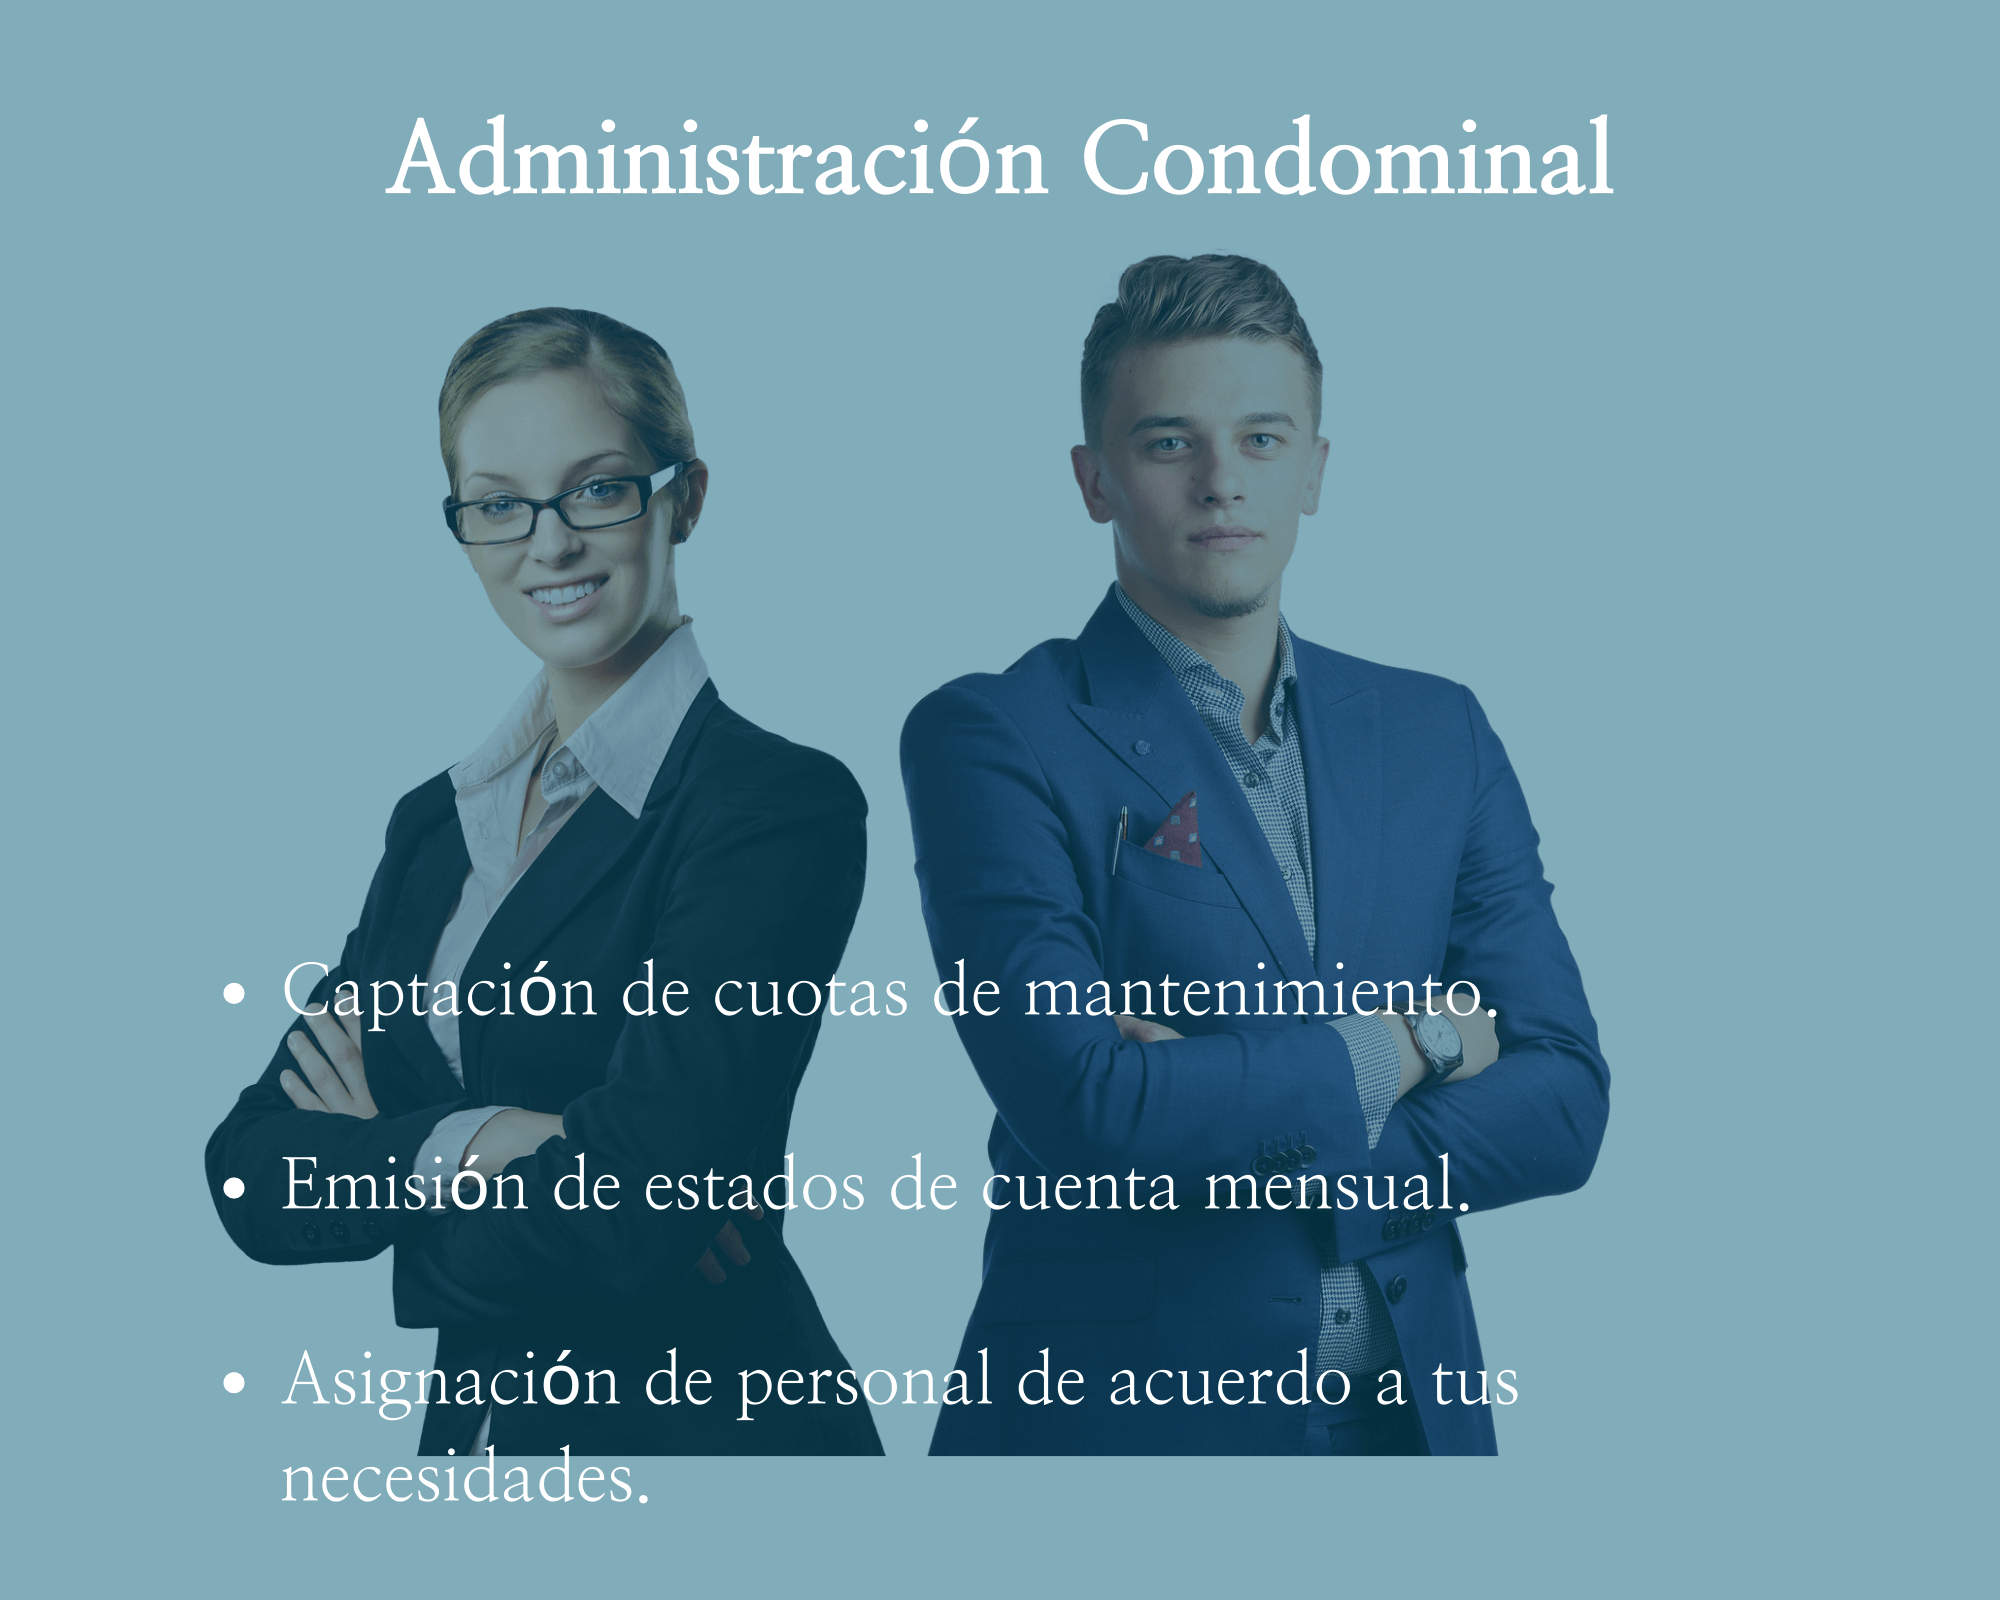
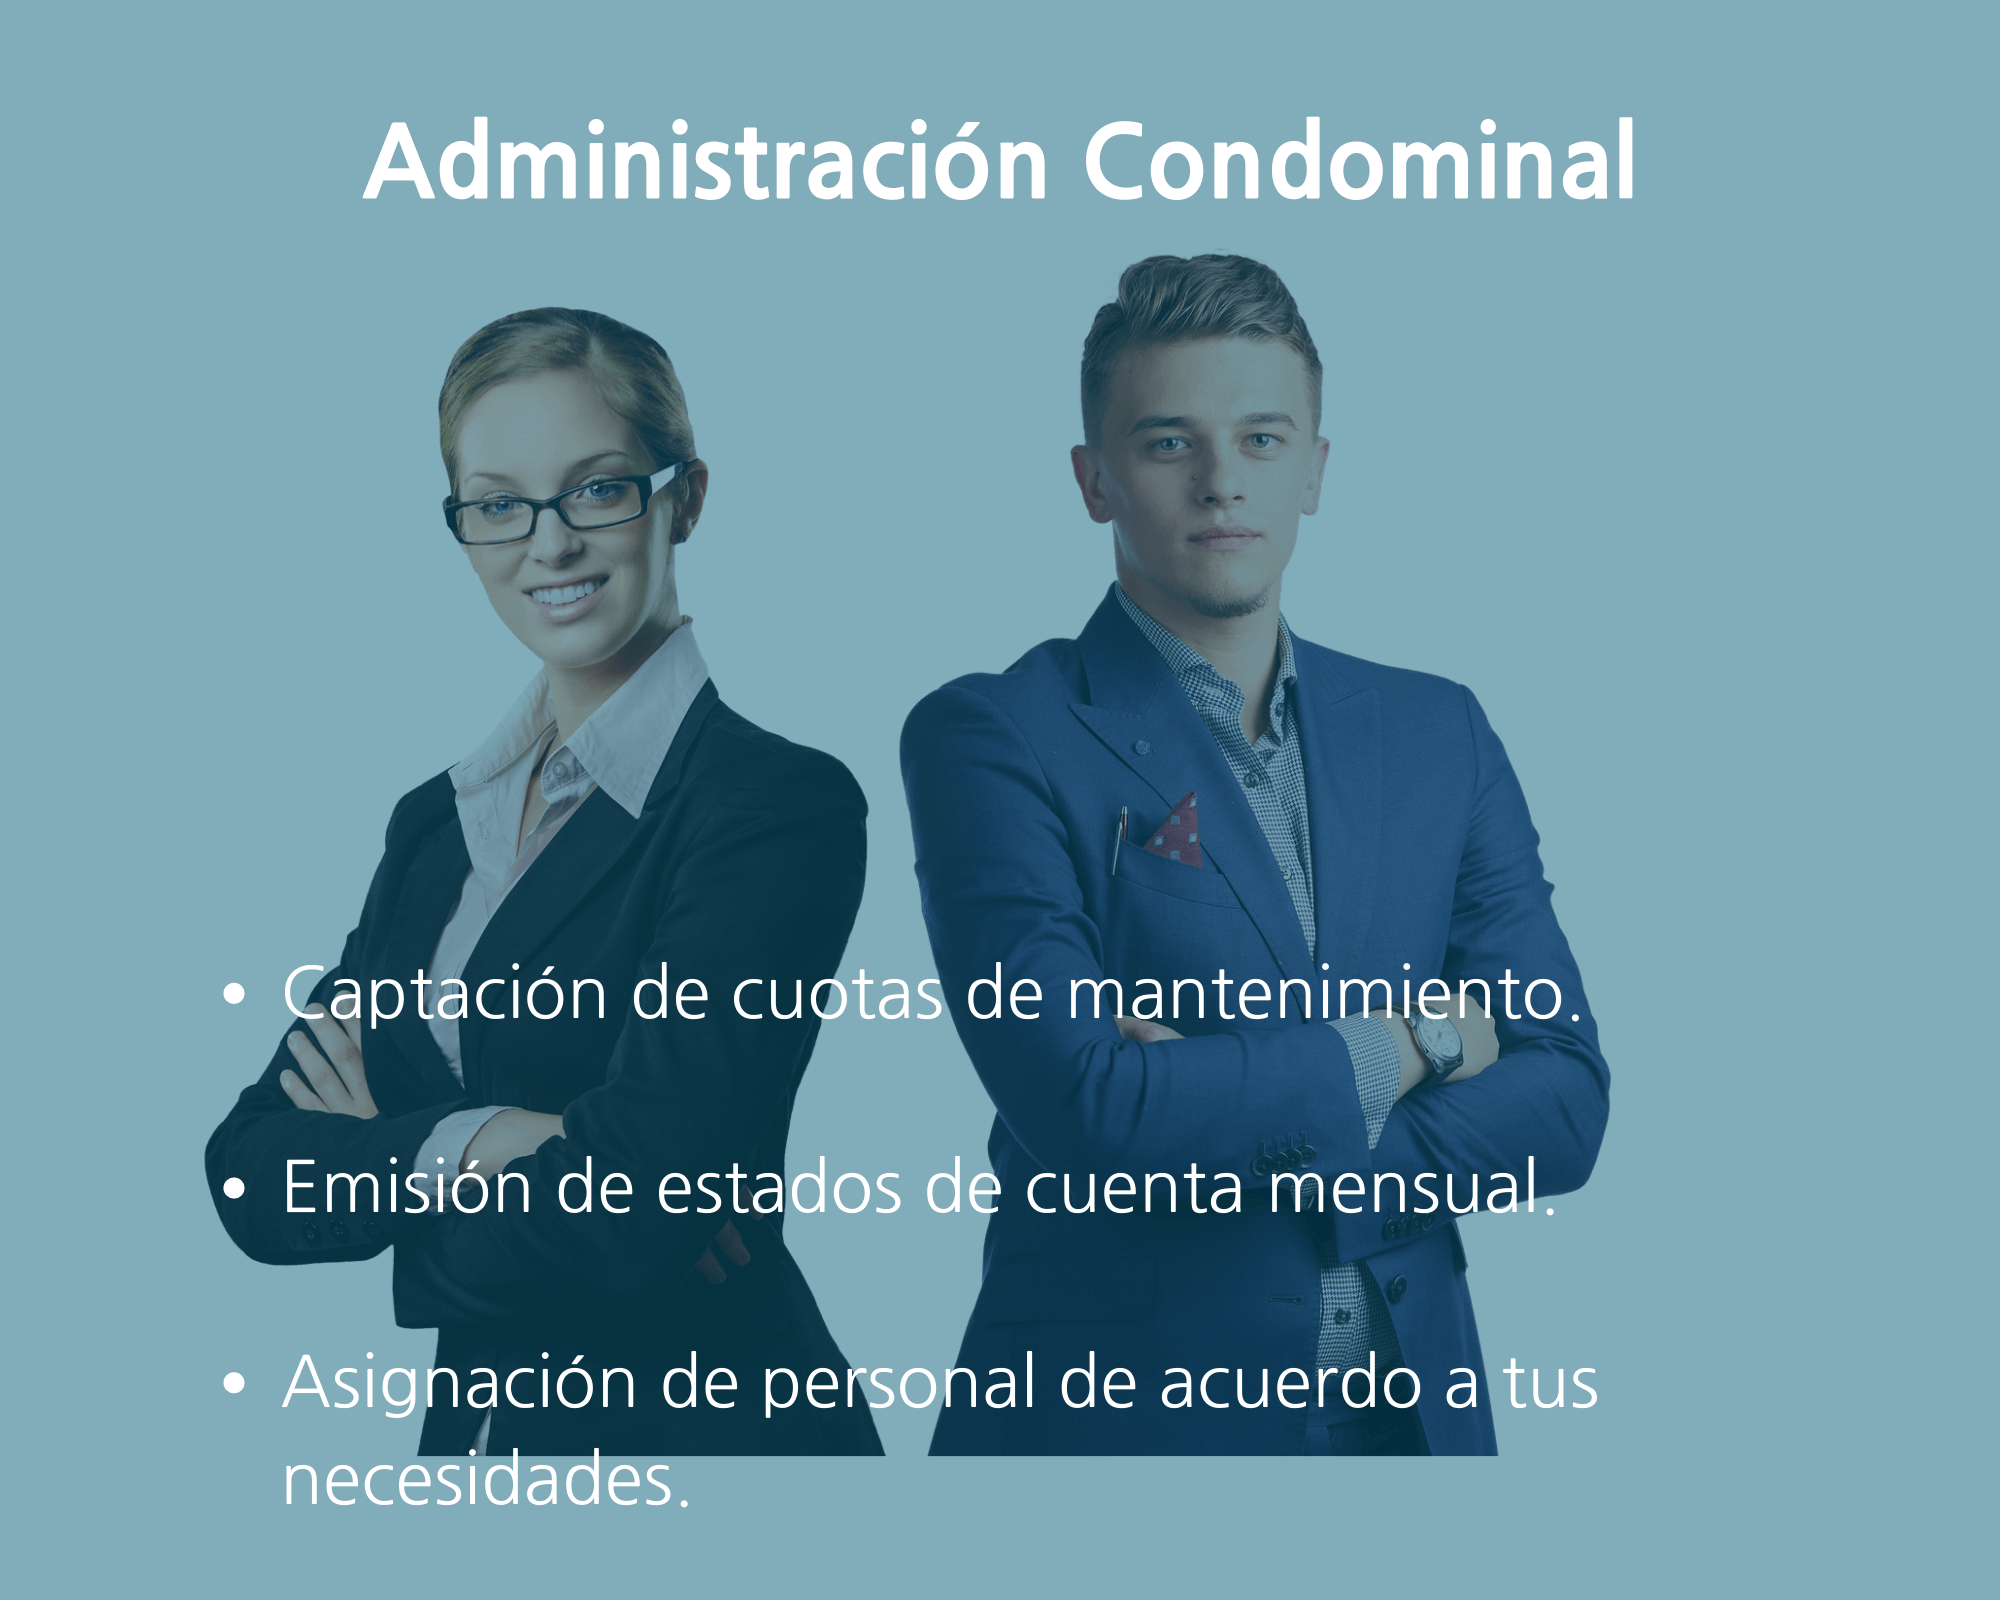
cambio de tipografia

diff --git a/index.html b/index.html
@@ -1,6 +1,11 @@
 <!DOCTYPE html>
   <html>
     <head>
+        <meta charset="utf-8">
+        <title>Profesionales Élite</title>
+        <link  rel="icon"   href="img/favicon.ico" type="image/png" />
+        <!--Google Font-->
+        <link href="https://fonts.googleapis.com/css2?family=Nanum+Gothic:wght@400;700&display=swap" rel="stylesheet">
         <!--Import Google Icon Font-->
         <link href="https://fonts.googleapis.com/icon?family=Material+Icons" rel="stylesheet">
         <!--Import materialize.css-->
@@ -41,7 +46,7 @@
         <section id="inicio"> <!--inicio-->
             <p>Somos profesionales, que entendemos las necesidades y las expectativas de nuestros clientes y socios, empatizamos contigo en la solución para lograr el bienestar y satisfacción que todos buscamos en nuestro patrimonio.</p>
             <!-- Modal Trigger -->
-            <a class="waves-effect waves-light btn modal-trigger" href="#modal1">Contáctanos</a>
+            <button class="waves-effect waves-light btn modal-trigger" href="#modal1">Contáctanos</button>
                 <!-- Modal Structure -->
                 <div id="modal1" class="modal">
                     <div class="modal-content">

diff --git a/style.css b/style.css
@@ -1,3 +1,7 @@
+html {
+    font-family: 'Nanum Gothic', sans-serif;
+  }
+
 .logo{
     width: 7%;
     margin-left: 5%;
@@ -12,6 +16,11 @@ nav ul a{
 	color: #045975;
 	font-weight: bold;
 }
+.waves-effect{
+    background-color: #9aeba6;
+}
+
+
 
 .sidenav-trigger{
     color: #045975;
@@ -28,6 +37,11 @@ nav ul a{
     text-align: center;
     color: white;
     padding: 12% 7% 5%;
+}
+#inicio button{
+    display: block;
+    margin: auto;
+    background-color:#9aeba6;
 }
 .modal{
     background-color:#9aeba6;
